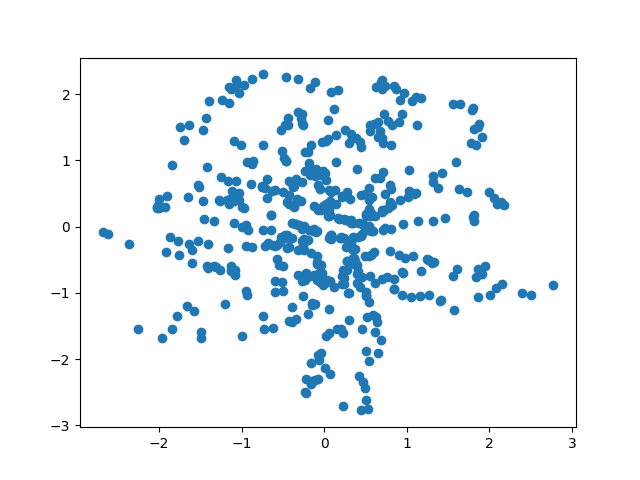
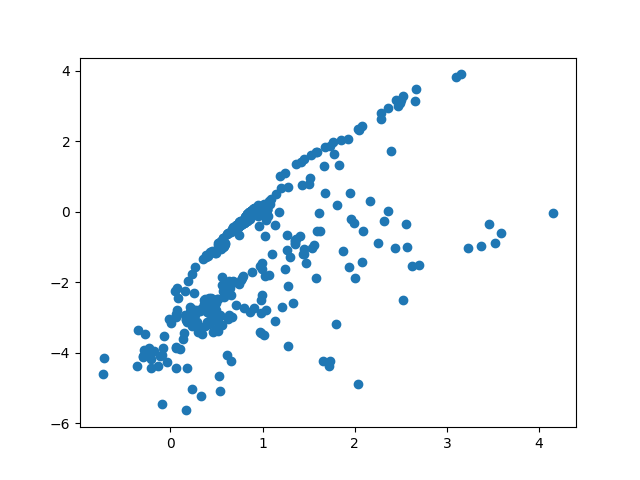
arc swirl problem with larger model

diff --git a/flow.py b/flow.py
@@ -12,21 +12,31 @@ import torchdiffeq as tdeq
 
 
 class NN(nn.Module):
-    def __init__(self):
+    def __init__(self, device):
         super(NN, self).__init__()
-        self.fc1 = nn.Linear(2, 100)
-        self.act1 = nn.ReLU()
-        self.fc2 = nn.Linear(100, 2)
+        self.layers = nn.Sequential(
+            nn.Linear(2, 128),
+            nn.Softplus(beta=20, threshold=20),
+            nn.Linear(128, 128),
+            nn.Softplus(beta=20, threshold=20),
+            nn.Linear(128, 128),
+            nn.Softplus(beta=20, threshold=20),
+            nn.Linear(128, 2),
+        ).to(device=device)
 
     def forward(self, x, t):
-        x = self.act1(self.fc1(x))
-        x = self.fc2(x)
-        return x
+        return self.layers(x)
 
 
 class ODEFuncBlock(nn.Module):
     def __init__(
-        self, h_k, model: nn.Module, sigma: float, use_fd=False, ode_solver="rk4"
+        self,
+        h_k,
+        model: nn.Module,
+        sigma: float,
+        use_fd=False,
+        ode_solver="rk4",
+        device="cpu",
     ):
         """ODE block using model, time independent
 
@@ -43,6 +53,7 @@ class ODEFuncBlock(nn.Module):
         self.sigma = sigma
         self.use_fd = use_fd
         self.ode_solver = ode_solver
+        self.device = device
 
     def vector_field(self, t, x):
         return self.model(x, t)
@@ -119,7 +130,11 @@ def sample_points_from_image(image_path, num_points=100000):
 
 
 def train_flow(
-    flow: JKO, train_dataset: Dataset, args: dict, test_dataset: Dataset | None = None
+    flow: JKO,
+    train_dataset: Dataset,
+    args: dict,
+    test_dataset: Dataset | None = None,
+    device="cpu",
 ):
     """train block by block"""
     train_args = args["train"]
@@ -159,7 +174,7 @@ def train_flow(
                         "div: ",
                         div_loss.item(),
                         "total: ",
-                        loss,
+                        loss.item(),
                     )
                     print(f"Block {block_idx} loss: {loss.item()}")
                 # breakpoint()
@@ -204,6 +219,7 @@ def main():
     print(args)
     torch.random.manual_seed(args["seed"])
     points = sample_points_from_image(args["image_path"], args["train"]["num_points"])
+    device = "cuda" if torch.cuda.is_available() else "cpu"
 
     h_ks = [
         min(args["h_max"], args["h_0"] * (args["rho"] ** idx))
@@ -211,13 +227,14 @@ def main():
     ]
     flow = JKO(
         [
-            ODEFuncBlock(h_ks[idx], NN(), args["sigma_0"] / args["d"])
+            ODEFuncBlock(h_ks[idx], NN(device), args["sigma_0"] / args["d"])
             for idx in range(args["num_blocks"])
         ]
     )
 
+    points.to(device=device)
     train_dataset = MyDataset(points)
-    train_flow(flow, train_dataset, args)
+    train_flow(flow, train_dataset, args, device=device)
 
 
 if __name__ == "__main__":
